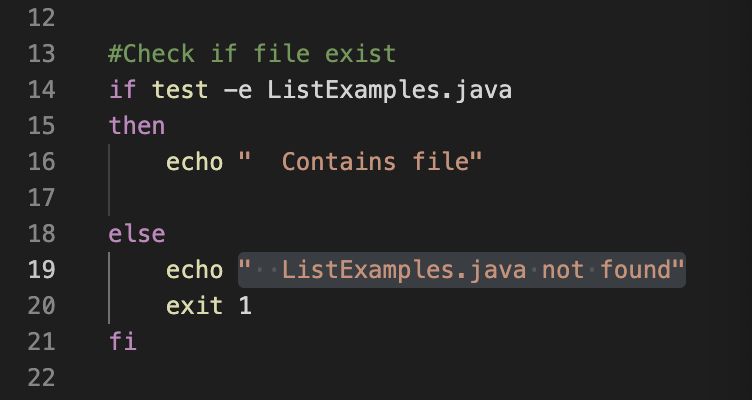
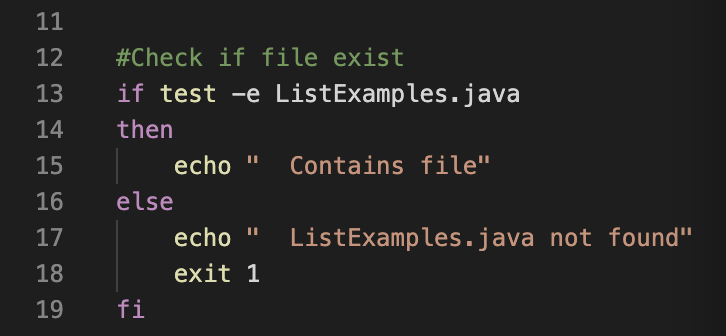
report5

diff --git a/lab-report-5.md b/lab-report-5.md
@@ -7,8 +7,7 @@ set -e
 CPATH=".:lib/hamcrest-core-1.3.jar:lib/junit-4.13.2.jar"
 
 rm -rf student-submission
-git clone $1 student-submission
-
+git clone $1 student-submission 
 cp TestListExamples.java student-submission
 cp -r lib student-submission
 
@@ -18,32 +17,35 @@ cd student-submission
 if test -e ListExamples.java 
 then 
     echo "  Contains file"
-
 else
     echo "  ListExamples.java not found" 
     exit 1
 fi
 
 
+
+
 #Compiles and run
-if javac -cp $CPATH *.java 2> compile-err.txt
+if javac -cp $CPATH *.java 
 then 
-    echo "  Compiled   "
+    echo "  Compiled   " 
     if java -cp $CPATH org.junit.runner.JUnitCore TestListExamples > test.txt 
     then
         VARF="$(sed -n 2p test.txt)"
         RES="${VARF//[^E]}"
         NUM=$((5-${#RES}))
-
-        echo "  Test Past:" ${#RES} "/5"
+        echo "  Test Past:" $NUM  "/5"
     else
         VARF="$(sed -n 2p test.txt)"
         RES="${VARF//[^E]}"
         NUM=$((5-${#RES}))
-        echo "  Test Past:" $NUM "/5"
+        echo "  Test Past:" $NUM "/5" 
+        exit 1
     fi
 else
     echo "  Compile error"
+    cat compile-err.txt
+    exit 1
 fi
 ```
 ---
@@ -57,30 +59,39 @@ fi
 
 <br>[Compile Error](https://github.com/ucsd-cse15l-f22/list-methods-compile-error)- this program is missing a semi-colon so it will result in a compile error.
 <br>![correct](images6/GraderError.png)
+
 ---
+
 ## Tracing- Incorrect Methods
+<br>![correct](images6/GraderWrong.png)
+
+
 <br>To begin, the shell script starts with `set -e` to stop execution so the program can start off in a clean state. `CPATH` is a declared variable that will be used later on in the code. `rm -rf student-submission` will forcefully remove the existing "student-submission" code so that we can grade other students code, which is why it is accompanied by `git clone $1 student-submission` which will clone a student's repository given by `$1` in the terminal. The purpose of these two line is to get rid of old code and copy in new code which the grader will then grade. Then lines 8 and 9 will copy using the `cp` command "TestListExamples.java,"(The test that will be used to grade) and the directory "lib"(Which contains junit and hamcrest) into student-submission. All these lines of code should have a *return code* of 0 because it is the set-up before grading. 
 
 <br><img src="images6/trace1.png" alt="drawing" width="500"/>
+<br><img src="images6/trace1/2.png" alt="drawing" width="500"/>
 
 
 <br>The next part contains an if statement that checks whether if the file "ListExamples.java" exit in the given submission. 
-Line 14 is the start of the if statement which test which will return true if the "ListExamples.java" exist in the directory suing the `-e` command. In this example, its will be true so the *return code* would be 0, then it leads to the command `echo` which will print out "Contains file" with the *return code* being 0. 
+Line 12 is the start of the if statement which test which will return true if the "ListExamples.java" exist in the directory using the `-e` command. In this example, its will be true so the *return code* would be 0, then it leads to the command `echo` which will print out "Contains file" with the *return code* being 0. 
 If the condition were to be false, then it would echo "ListExamples.java not found" instead then end. 
-Line 21 represents the end of the if statement denoted by the backwards if.
+Line 19 represents the end of the if statement denoted by the backwards if.
 
 <br><img src="images6/trace2.png" alt="drawing" width="500"/>
+<br><img src="images6/trace2/2.png" alt="drawing" width="500"/>
 
 
 
 <br>The last section of this script is compiling and running.
-On line 25, the variable `CPATH` is being used. This line compiles the code using javac and if errors do exist will sent it to another file name "compile-err.txt". In this case for this example, the compile was successfull so the if codition results to be "true" also meaning the *return code* is 0. This will allow it to move on to the next line and `echo` "Compiled" which means the *return code* is 0.
-Then within the first statement, on line 28, a next if which has the codition of running the program after it compiled with java and send its terminal statements to a file called "test.txt". In this case it also is true which allows it to move on in the code. *Return code* is not 0 therefore it skips "then" and goes to the code with "else".
-On line 36, it runs the code `sed -n 2p test.txt` and sets it to the variable `VARF`. What this line does is it reads the line(line 2), from the file (test.txt which contains the output of the program when ran) then sets it to the variable (VARF). Then on the next line a new variable is created called `RES` which counts the number of times "E" appears in that line which is 3 for this example. *Return code* is 0
+On line 25, the variable `CPATH` is being used. This line compiles the code using javac then sends any error to "compile-err.txt". In this case for this example, the compile was successfull so the if codition results to be "true" also meaning the *return code* is 0. This will allow it to move on to the next line and `echo` "Compiled" which means the *return code* is 0.
+Then within the first statement, on line 28, a next if which has the codition of running the program after it compiled with java and send its terminal statements to a file called "test.txt". In this case it also is not true which allows it to move on in the code. *Return code* is 1 therefore it skips "then" and goes to the code with "else".
+On line 35, it runs the code `sed -n 2p test.txt` and sets it to the variable `VARF`. What this line does is it reads the line(2p), from the file (test.txt which contains the output of the program when ran) then sets it to the variable (VARF). Then on the next line a new variable is created called `RES` which counts the number of times "E" appears in that line which is 3 for this example. *Return code* is 0
 Note: the second line of the output when using junit is how many test has ran and amount of error (E) there is.
 Then on line 38, it takes the total of 5 tests for this specific "TestListExamples.java" and subtract the amount of errors and set it to a new variable NUM. *Return code* is 0
-The last part of this script is it echoing "Test Past: " with the number of test it past which is 2 over 5. 
+The last part of this script is it echoing "Test Past: " with the number of test it past which is 2 over 5. It also has a *return code* of 0
 
-Lines 29-34 didn't run because there were errors in the methods, but if it did run then it would print out Test Past: 5/5" because all test would have past. 41-42 did not run because the program compiled successfully leading to the codes in "then" instead of "else". 
+Lines 29-34 didn't run because there were errors in the methods, but if it did run then it would print out Test Past: 5/5" because all test would have past. 41-45 did not run because the program compiled successfully leading to the codes in "then" instead of "else". 
 
 <br><img src="images6/trace3.png" alt="drawing" width="500"/>
+<br><img src="images6/trace3/2.png" alt="drawing" width="500"/>
+<br>![correct](images6/Figure1.png)
